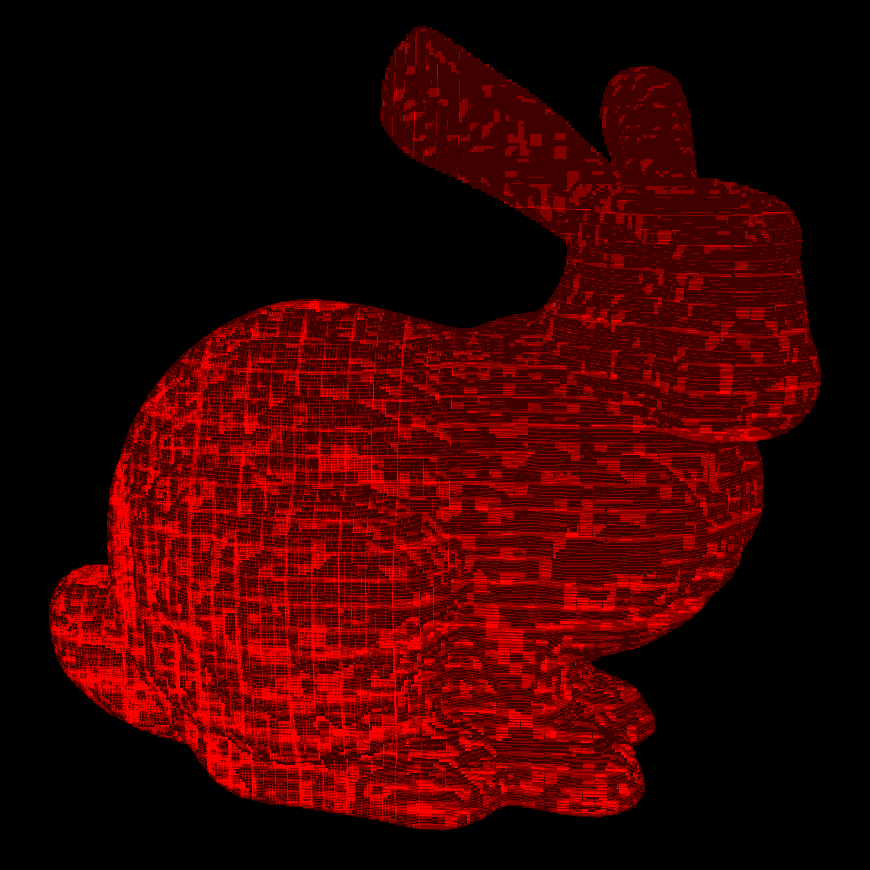
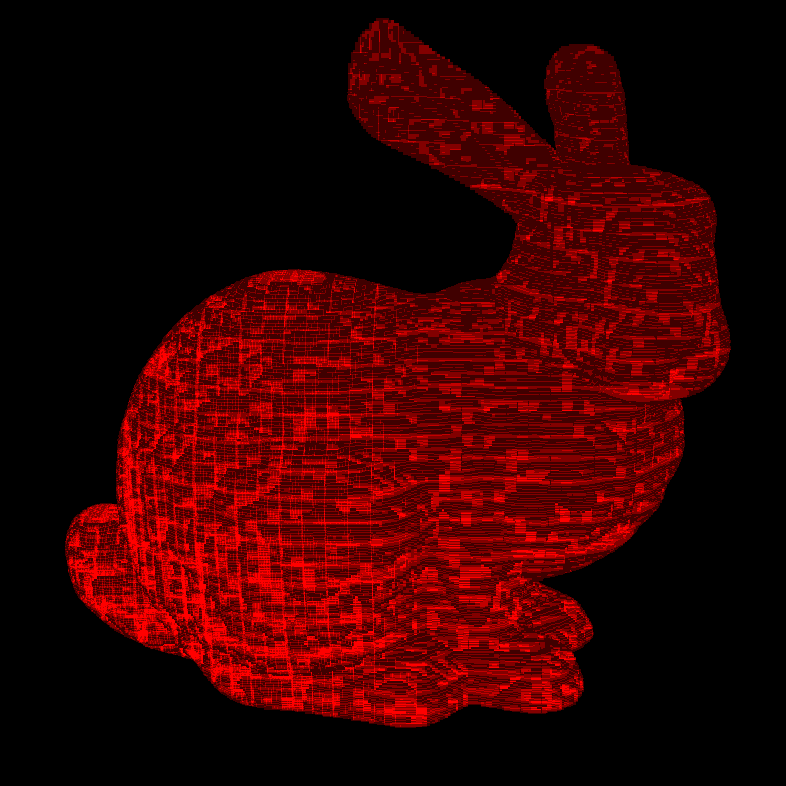
Added overdraw text and updated images

diff --git a/Thesis/chapters/06_Experiment.tex b/Thesis/chapters/06_Experiment.tex
@@ -523,13 +523,22 @@ copying the depth buffer and computing the mip maps.
   \includegraphics[height=125px]{images/graphics/overdraw-lucy1-pooc.png}
   \includegraphics[height=125px]{images/graphics/overdraw-lucy1-pmoc.png}
   \includegraphics[height=125px]{images/graphics/overdraw-lucy1-diff.png}
+  \includegraphics[height=125px]{images/graphics/overdraw-lucy2-pooc.png}
+  \includegraphics[height=125px]{images/graphics/overdraw-lucy2-pmoc.png}
+  \includegraphics[height=125px]{images/graphics/overdraw-lucy2-diff.png}
   \caption{}
   \label{fig:lucy-overdraw}
 \end{figure}
 
+\noindent
+Figure \ref{fig:lucy-overdraw} shows that the per-octree occlusion culling had more 
+overdrawn pixels than the per-meshlet occlusion culling configuration. While the 
+per-octree occlusion culling resulted in a maximum overdraw of 38 draws per pixel, 
+the per-meshlet occlusion culling was able to reduce this to a maximum of 27 draws.
+The side view featured only a maximum of 7 draws per pixel in both configurations.
+
 
 \clearpage
-
 
 
 
@@ -730,8 +739,6 @@ Compared to the \emph{Lucy} model, the depth prepass took considerably longer to
 the longer dispatch of the best occluders, which took about three times as long. The \emph{Bunny}'s amount of 
 best occluders was 5.1 times as high as the amount of best occluders in the \emph{Lucy} model.
 
-\clearpage
-
 \subsubsection*{Overdraw} \label{subsubsec-overdraw-bunny}
 
 \begin{figure}[!htb]
@@ -739,9 +746,26 @@ best occluders was 5.1 times as high as the amount of best occluders in the \emp
   \includegraphics[width=125px]{images/graphics/overdraw-bunny1-pooc.png}
   \includegraphics[width=125px]{images/graphics/overdraw-bunny1-pmoc.png}
   \includegraphics[width=125px]{images/graphics/overdraw-bunny1-diff.png}
-  \caption{}
+  \includegraphics[width=125px]{images/graphics/overdraw-bunny2-pooc.png}
+  \includegraphics[width=125px]{images/graphics/overdraw-bunny2-pmoc.png}
+  \includegraphics[width=125px]{images/graphics/overdraw-bunny2-diff.png}
+  \caption{Overdraw of the pixels from two different camera angles. The left column 
+  shows the per-octree occlusion culling configuration, the middle column shows the 
+  per-meshlet occlusion culling configuration and the right column shows the difference 
+  of both configurations. The image values are enhanced for better visualization.}
   \label{fig:bunny-overdraw}
 \end{figure}
+
+\noindent
+Figure \ref{fig:bunny-overdraw} shows the overdraw of pixels from two different camera angles.
+Both rows show, that the per-octree occlusion culling had more overdrawn pixels than the 
+per-meshlet occlusion culling configuration. The difference is in favor of per-meshlet 
+culling, which had only a maximum of 43 draws to the same pixels as compared to 60 draws.
+The camera angle clearly made a difference here, as the top view increased the amount of 
+overdraw significantly. This is especially visible on the surface of the model where a lot 
+of rounded edges are present.
+
+\clearpage
 
 
 
@@ -940,9 +964,19 @@ using the per-meshlet occlusion culling configuration as shown in figure \ref{fi
   \includegraphics[height=125px]{images/graphics/overdraw-torus2-pooc.png}
   \includegraphics[height=125px]{images/graphics/overdraw-torus2-pmoc.png}
   \includegraphics[height=125px]{images/graphics/overdraw-torus2-diff.png}
-  \caption{}
+  \caption{Overdraw of the pixels from two different camera angles. The left column 
+  shows the per-octree occlusion culling configuration, the middle column shows the 
+  per-meshlet occlusion culling configuration and the right column shows the difference 
+  of both configurations. The image values are enhanced for better visualization.}
   \label{fig:torus-overdraw}
 \end{figure}
+
+\noindent
+Figure \ref{fig:torus-overdraw} shows the overdraw for the \emph{Torus} model from two 
+camera perspectives. Clearly, the per-meshlet occlusion culling configuration resulted 
+in less overdraw, especially when viewed from the sides. As the second row of figure 
+\ref{fig:torus-overdraw} shows, the edges were particularly overdrawn because of the 
+missing deoth information.
 
 \clearpage
 
@@ -1149,9 +1183,20 @@ culling, while the depth prepass didn't change significantly.
   \includegraphics[height=125px]{images/graphics/overdraw-terrain2-pooc.png}
   \includegraphics[height=125px]{images/graphics/overdraw-terrain2-pmoc.png}
   \includegraphics[height=125px]{images/graphics/overdraw-terrain2-diff.png}
-  \caption{}
+  \caption{Overdraw of the pixels from two different camera angles. The left column 
+  shows the per-octree occlusion culling configuration, the middle column shows the 
+  per-meshlet occlusion culling configuration and the right column shows the difference 
+  of both configurations. The image values are enhanced for better visualization.}
   \label{fig:terrain-overdraw}
 \end{figure}
+
+
+\noindent
+As shown in figure \ref{fig:terrain-overdraw}, the per-octree culling configuration clearly 
+featured more overdraw than the comparison configuration. In the first row, it is evident that 
+the left lower corner features a lot of overdraw which was decreased by switching to the 
+per-meshlet culling configuration. The maximum draws per pixel were 86 and 45 respectively, in 
+favor of the per-meshlet culling.
 
 \clearpage
 
@@ -1228,7 +1273,7 @@ occlusion culling, which represented a rather low increase relative to the other
 
 % ----------------------------------------------------------------------------------------
 
-\subsubsection*{CPU Performance Results} \label{subsubsec-cpu-performance-results-hariball}
+\subsubsection*{CPU Performance Results} \label{subsubsec-cpu-performance-results-hairball}
 
 [@TODO: Check: if Render() includes the GPU work, why no difference?]
 The \ac{CPU} performance was not significantly diverging and was therefore considered static for 
@@ -1276,7 +1321,7 @@ both configurations.
   \end{center}
 \end{figure}
 
-\subsubsection*{GPU Performance Results} \label{subsubsec-gpu-performance-results-hariball}
+\subsubsection*{GPU Performance Results} \label{subsubsec-gpu-performance-results-hairball}
 
 Figure \ref{fig:hairball-gpu-times} shows the difference in \ac{GPU} timing, which was in favor of the 
 per-meshlet occlusion culling. Although the per-meshlet culling connfiguration still accelerated the \ac{GPU} 
@@ -1357,9 +1402,21 @@ which use case the overhead is greater than the time saving.
   \includegraphics[height=125px]{images/graphics/overdraw-hairball2-pooc.png}
   \includegraphics[height=125px]{images/graphics/overdraw-hairball2-pmoc.png}
   \includegraphics[height=125px]{images/graphics/overdraw-hairball2-diff.png}
-  \caption{}
+  \caption{Overdraw of the pixels from two different camera angles. The left column 
+  shows the per-octree occlusion culling configuration, the middle column shows the 
+  per-meshlet occlusion culling configuration and the right column shows the difference 
+  of both configurations. The image values are enhanced for better visualization.}
   \label{fig:hairball-overdraw}
 \end{figure}
+
+\noindent
+Figure \ref{fig:hairball-overdraw} shows that the overdraw was similar for both configurations, 
+but still in favor of per-meshlet occlusion culling. The last column featuring the difference 
+values between both configurations shows this particularly well. There is only a small difference 
+between both measurements, which is also reflected in the maximum amount of overdraw. The 
+per-octree node culling resulted in a maximum of 54 draws to one pixel and the per-meshlet 
+culling configuration resulted in a maximum of 51 draws. Again, the top view resulted in more 
+overdraw than the front view.
 
 \clearpage
 
@@ -1369,8 +1426,8 @@ which use case the overhead is greater than the time saving.
 \subsection*{Measurment Overview}
 
 After the analysis of each model, the data is now cross compared over all models to discuss the 
-overall results the measurments provided. Table \ref{tbl:culling-result-overview-pooc} shows an overview of 
-all models and some of the most interesting data points. 
+overall results the measurments provided. Table \ref{tbl:culling-result-overview-pooc} shows an 
+overview of all models and some of the most interesting data points. 
 
 \begin{table}[!htb]
   \begin{tabular}{|lccccc|}

diff --git a/Thesis/settings.tex b/Thesis/settings.tex
@@ -143,7 +143,7 @@
 \usepackage{soul}
 \usepackage{tikz}
 \usepackage{pgfplots}
-\pgfplotsset{compat=1.18}
+\pgfplotsset{compat=1.9}
 \usepgfplotslibrary{units}
 
 % font size for captions 
